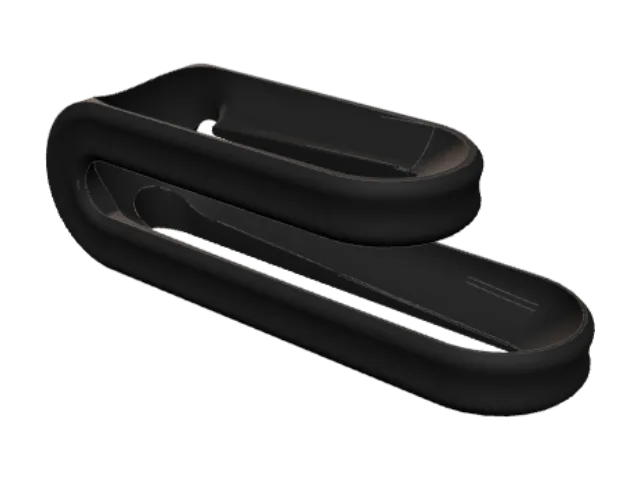
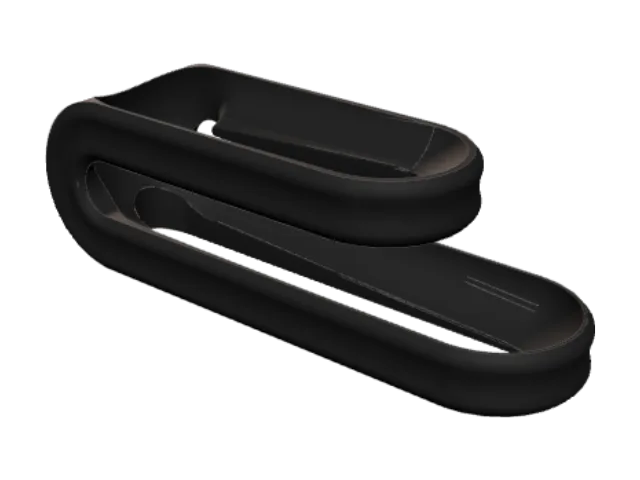
Distributeur d'œufs en boucle : seule la longueur est réglable (#138)
* Distributeur d'œufs en boucle : seule la longueur est réglable, berceaux à la taille d'origine

Claude-Session: https://claude.ai/code/session_013t5AiqU9STi8q94VNKuuJe

* Barème des prix sur-mesure : distributeur-oeufs-boucle (run 43406875804)

* Distributeur d'œufs en boucle : prix de référence, page et vignettes à jour

Claude-Session: https://claude.ai/code/session_013t5AiqU9STi8q94VNKuuJe

---------

diff --git a/produits/distributeur-oeufs-boucle/index.html b/produits/distributeur-oeufs-boucle/index.html
@@ -26,7 +26,7 @@
   <meta property="product:price:amount" content="27.00">
   <meta property="product:price:currency" content="EUR">
   <meta name="twitter:card" content="summary_large_image">
-  <script type="application/ld+json">[{"@context":"https://schema.org","@type":"Product","name":"Distributeur d'œufs en boucle","description":"La forme d'origine, avec ses berceaux galbés. Couchez les œufs en travers dans le bac du haut : ils roulent jusqu'à la boucle, font demi-tour et redescendent par le bac du bas jusqu'à son bout relevé, où l'on prend le premier. Chaque œuf repose sur deux berceaux galbés, de part et d'autre d'une fente qui laisse voir les œufs du dessous. Les berceaux s'écartent selon la longueur de vos œufs ; la longueur du distributeur fixe le nombre d'œufs.","sku":"distributeur-oeufs-boucle","category":"Meubles & Rangement","image":["https://evarysth.fr/assets/og/distributeur-oeufs-boucle.jpg"],"brand":{"@type":"Brand","name":"Evarysth"},"offers":{"@type":"AggregateOffer","url":"https://evarysth.fr/produits/distributeur-oeufs-boucle/","priceCurrency":"EUR","offerCount":3,"lowPrice":"28.00","highPrice":"32.00"}},{"@context":"https://schema.org","@type":"BreadcrumbList","itemListElement":[{"@type":"ListItem","position":1,"name":"Catalogue","item":"https://evarysth.fr/catalogue/"},{"@type":"ListItem","position":2,"name":"Meubles & Rangement","item":"https://evarysth.fr/univers/meubles/"},{"@type":"ListItem","position":3,"name":"Distributeur d'œufs en boucle","item":"https://evarysth.fr/produits/distributeur-oeufs-boucle/"}]}]</script>
+  <script type="application/ld+json">[{"@context":"https://schema.org","@type":"Product","name":"Distributeur d'œufs en boucle","description":"La forme d'origine, avec ses berceaux galbés. Couchez les œufs en travers dans le bac du haut : ils roulent jusqu'à la boucle, font demi-tour et redescendent par le bac du bas jusqu'à son bout relevé, où l'on prend le premier. Chaque œuf repose sur deux berceaux galbés, de part et d'autre d'une fente qui laisse voir les œufs du dessous. Les berceaux accueillent les œufs du commerce, du calibre moyen au gros ; la longueur du distributeur fixe le nombre d'œufs.","sku":"distributeur-oeufs-boucle","category":"Meubles & Rangement","image":["https://evarysth.fr/assets/og/distributeur-oeufs-boucle.jpg"],"brand":{"@type":"Brand","name":"Evarysth"},"offers":{"@type":"AggregateOffer","url":"https://evarysth.fr/produits/distributeur-oeufs-boucle/","priceCurrency":"EUR","offerCount":3,"lowPrice":"28.00","highPrice":"32.00"}},{"@context":"https://schema.org","@type":"BreadcrumbList","itemListElement":[{"@type":"ListItem","position":1,"name":"Catalogue","item":"https://evarysth.fr/catalogue/"},{"@type":"ListItem","position":2,"name":"Meubles & Rangement","item":"https://evarysth.fr/univers/meubles/"},{"@type":"ListItem","position":3,"name":"Distributeur d'œufs en boucle","item":"https://evarysth.fr/produits/distributeur-oeufs-boucle/"}]}]</script>
   <link rel="preconnect" href="https://fonts.googleapis.com">
   <link rel="preconnect" href="https://fonts.gstatic.com" crossorigin>
   <link href="https://fonts.googleapis.com/css2?family=Bricolage+Grotesque:opsz,wght@12..96,600;12..96,700;12..96,800&family=Inter:wght@400;500;600;700&family=JetBrains+Mono:wght@400;500&display=swap" rel="stylesheet">
@@ -88,7 +88,7 @@
     <article class="pdp-static">
       <h1>Distributeur d'œufs en boucle</h1>
       <p>La forme d'origine, avec ses berceaux galbés.</p>
-      <p>Couchez les œufs en travers dans le bac du haut : ils roulent jusqu'à la boucle, font demi-tour et redescendent par le bac du bas jusqu'à son bout relevé, où l'on prend le premier. Chaque œuf repose sur deux berceaux galbés, de part et d'autre d'une fente qui laisse voir les œufs du dessous. Les berceaux s'écartent selon la longueur de vos œufs ; la longueur du distributeur fixe le nombre d'œufs.</p>
+      <p>Couchez les œufs en travers dans le bac du haut : ils roulent jusqu'à la boucle, font demi-tour et redescendent par le bac du bas jusqu'à son bout relevé, où l'on prend le premier. Chaque œuf repose sur deux berceaux galbés, de part et d'autre d'une fente qui laisse voir les œufs du dessous. Les berceaux accueillent les œufs du commerce, du calibre moyen au gros ; la longueur du distributeur fixe le nombre d'œufs.</p>
       <p>Dès 27 €. En taille standard (longueur du distributeur : Compact environ 6 œufs, Moyen environ 7 œufs, Grand environ 8 œufs), ou sur-mesure à vos cotes.</p>
       
       <noscript><p>Activez JavaScript pour voir la pièce en 3D, régler vos cotes et commander.</p></noscript>

diff --git a/assets/js/modeles/distributeur-oeufs-boucle.js b/assets/js/modeles/distributeur-oeufs-boucle.js
@@ -2,41 +2,37 @@
    Forme d'origine du STL « eggs dispenser v21 », gardée telle quelle (allégée de 53 600 à 16 000 triangles,
    écart ≤ 0,1 mm) : deux bacs superposés reliés par une boucle, berceaux galbés de part et d'autre d'une fente
    centrale. Les œufs, couchés en travers, roulent dans le bac du haut vers la boucle (pente 2,5 %), font demi-tour
-   et redescendent par le bac du bas jusqu'au bout relevé, à droite.
+   et redescendent par le bac du bas jusqu'au bout relevé, à droite. Berceaux à la taille d'origine (œufs du
+   commerce, calibres M à L) : ils entourent largement l'œuf, le jeu de la matière n'y change rien.
    Repère du fichier : X la longueur (boucle en x = 0), Y vers le haut (dessous en y = 0), Z la profondeur, centrée.
-   Redimensionnement « par zones », comme la boîte Rugged : on n'étire que des bandes sans détail.
-   - b = longueur hors tout : bande 57 < x < 183 (bacs droits seulement ; boucle, bouts et encoches translatés).
-     Les fonds y restent plans : ils raccourcissent avec la bande, leur pente augmente un peu quand on raccourcit.
-   - a = longueur des œufs (+ jeu) : bande centrale |z| < 11,5, dans la fente ; les berceaux gardent leur forme et
-     s'écartent. Le fichier d'origine correspond à des œufs de 60 mm. */
+   a = longueur hors tout, redimensionnée « par zones » comme la boîte Rugged : seule la bande 57 < x < 183 (bacs
+   droits) s'étire ; boucle, bouts et encoches sont translatés. Les fonds y restent plans : ils raccourcissent avec
+   la bande, leur pente augmente un peu quand on raccourcit. */
 EVARYSTH.viewer3d.define("distributeur-oeufs-boucle", ({ fetchSTL }) => {
   const URL = "assets/models/distributeur-oeufs-boucle/distributeur.stl";
-  const NOM = { a: 60, b: 274.191 }, BX = [57, 183], BZ = 11.5;
+  const L0 = 274.191, BX = [57, 183];
   let base = null, creases = null;
   const model = (T, v) => {
-    const dx = v.b - NOM.b, dz = (v.a + (v.jeu || 0) - NOM.a - 0.3) / 2;   // 0,3 : jeu du PETG, compris dans le fichier
-    const sx = (BX[1] - BX[0] + dx) / (BX[1] - BX[0]), sz = (BZ + dz) / BZ;
-    const out = new Float32Array(base.length);
-    for (let i = 0; i < base.length; i += 3) {
-      const x = base[i], z = base[i + 2];
+    const dx = v.a - L0, sx = (BX[1] - BX[0] + dx) / (BX[1] - BX[0]);
+    const out = base.slice();
+    for (let i = 0; i < out.length; i += 3) {
+      const x = out[i];
       out[i] = x > BX[1] ? x + dx : x > BX[0] ? BX[0] + (x - BX[0]) * sx : x;
-      out[i + 1] = base[i + 1];
-      out[i + 2] = z > BZ ? z + dz : z < -BZ ? z - dz : z * sz;
     }
     const g = new T.BufferGeometry();
     g.setAttribute("position", new T.BufferAttribute(out, 3));
     const r = creases(g, Math.PI / 6); g.dispose();   // ombrage lisse sur les galbes, arêtes vives au-delà de 30°
-    return r.translate(-(v.b) / 2, 0, 0);
+    return r.translate(-v.a / 2, 0, 0);
   };
   model.prepare = () => base ? Promise.resolve() : Promise.all([fetchSTL(URL), import("three/addons/utils/BufferGeometryUtils.js")])
     .then(([g, { toCreasedNormals }]) => { base = g.attributes.position.array.slice(); creases = toCreasedNormals; });
   return model;
 }, {
   solides: 1,
-  /* Repère final : centré en x (longueur b), dessous en y = 0, centré en z. Fente du bac bas mesurée à mi-longueur,
-     3 mm au-dessus du dessous (27,5 mm d'origine, élargie comme les œufs). */
-  cotes: ({ a, b, jeu }) => [
-    { nom: "longueur du distributeur", axe: "y", en: [0, 3, 0], mesure: "boite", selon: "x", attendu: b },
-    { nom: "profondeur hors tout", axe: "y", en: [0, 3, 0], mesure: "boite", selon: "z", attendu: 73.37 + a + jeu - 60.3 },
-    { nom: "fente du bac bas", axe: "x", en: [0, 3, 0], mesure: "largeur", selon: "z", attendu: 27.5 + a + jeu - 60.3 }]
+  /* Repère final : centré en x (longueur a), dessous en y = 0, centré en z. Fente du bac bas mesurée à mi-longueur,
+     3 mm au-dessus du dessous. */
+  cotes: ({ a }) => [
+    { nom: "longueur du distributeur", axe: "y", en: [0, 3, 0], mesure: "boite", selon: "x", attendu: a },
+    { nom: "profondeur hors tout", axe: "y", en: [0, 3, 0], mesure: "boite", selon: "z", attendu: 73.37 },
+    { nom: "fente du bac bas", axe: "x", en: [0, 3, 0], mesure: "largeur", selon: "z", attendu: 27.5 }]
 });

diff --git a/assets/js/bareme.js b/assets/js/bareme.js
@@ -19,7 +19,7 @@ EVARYSTH.bareme = {
     "vide-poche-cles": {"empreinte":"8a8f469359fb38fe","matiere":"pla","profil":"pla","bambu_studio":"02.08.02.61","axes":{"a":[60,75,130,180],"b":[55,75,120],"c":[100,120,180]},"points":[[26.25,4065],[28.69,4150],[36.36,4935],[29.3,4250],[32.38,4581],[39.89,5448],[36.92,5135],[40.27,5416],[48.02,6429],[32.52,4912],[35.56,4988],[45.1,5966],[36.15,5097],[39.98,5513],[49.31,6587],[45.24,6141],[49.4,6527],[59.05,7742],[54.48,7856],[59.68,7932],[76.11,9622],[60.25,8088],[66.8,8798],[82.85,10600],[74.73,9642],[81.85,10337],[98.45,12415],[75.15,10668],[82.34,10738],[105.02,13003],[82.88,10909],[91.92,11890],[114.06,14402],[102.26,13044],[112.09,13972],[135.01,16853]]},
     "distributeur-cotons": {"empreinte":"17c116b2f7ab83ce","matiere":"petg","profil":"petg","bambu_studio":"02.08.02.61","axes":{"a":[45,58,75],"b":[100,150,200],"c":[35,50,70]},"points":[[43.94,8444],[47.32,8605],[51.82,8865],[58.51,11798],[61.89,12046],[66.39,12249],[73.09,15279],[76.46,15469],[80.96,15635],[52.85,8806],[56.14,9024],[60.54,9276],[70.83,12237],[74.13,12439],[78.53,12745],[88.81,15733],[92.11,15932],[96.5,16143],[65.46,9715],[68.76,9997],[73.17,10382],[87.96,13304],[91.26,13578],[95.66,13974],[110.46,16895],[113.76,17183],[118.17,17558]]},
     "distributeur-oeufs": {"empreinte":"2f5180c318e834c2","matiere":"petg","profil":"petg","bambu_studio":"02.08.02.61","axes":{"a":[50,55,60,68],"b":[180,200,220,250]},"points":[[80.1,12916],[87.62,13979],[96.22,15169],[108.61,16869],[87.7,14080],[95.9,15091],[105.05,16357],[118.3,18015],[100.79,15490],[109.96,16814],[120.18,18121],[135.13,19995],[114.6,17296],[125.77,18835],[136.97,20395],[153.24,22339]]},
-    "distributeur-oeufs-boucle": {"empreinte":"1461f20714f077e7","matiere":"petg","profil":"petg","bambu_studio":"02.08.02.61","axes":{"a":[50,55,60,68],"b":[210,242,274,280]},"points":[[89.44,14664],[104.57,16809],[119.5,19020],[122.2,19281],[91.66,15009],[106.82,17186],[121.78,19237],[124.28,19651],[93.82,15348],[108.98,17573],[123.92,19654],[126.39,19988],[97.41,15931],[112.57,18077],[127.54,20243],[129.95,20543]]},
+    "distributeur-oeufs-boucle": {"empreinte":"ff78241988490f8c","matiere":"petg","profil":"petg","bambu_studio":"02.08.02.61","axes":{"a":[210,226,242,274,280]},"points":[[93.83,15320],[101.31,16484],[108.98,17486],[123.92,19688],[126.39,20047]]},
     "cintre-sac": {"empreinte":"6b52ac4a3a371e48","matiere":"petg","profil":"petg","bambu_studio":"02.08.02.61","axes":{"a":[15,20,25,33,40]},"points":[[14.13,3811],[14.91,3935],[16.24,4006],[18.02,4029],[19.61,4169]]},
     "support-aerosol-skadis": {"empreinte":"29c4443d1121707f","matiere":"asa","profil":"petg","bambu_studio":"02.08.02.61","axes":{"a":[40,54,67,80],"b":[60,75,85,110]},"points":[[18.74,4728],[22.49,5706],[24.98,6362],[31.2,8013],[25.98,5059],[31.19,6073],[34.66,6748],[43.35,8451],[33.47,5535],[40.24,6593],[44.76,7293],[56.03,9096],[39.92,6013],[47.93,7118],[53.27,7857],[66.63,9737]]},
     "support-accessoires-aspirateur": {"empreinte":"edcf085530655c49","matiere":"petg","profil":"petg","bambu_studio":"02.08.02.61","axes":{"a":[30,35.8,45],"b":[180,196,250],"c":[50,60,90]},"points":[[47.39,7132],[49.36,7332],[58.12,8325],[50.04,7582],[52.09,7640],[61.07,8734],[59.26,8477],[60.94,8747],[69.99,9814],[47.79,7239],[51.69,7787],[59.83,8651],[50.67,7520],[54.46,8039],[62.57,9040],[59.25,8595],[63.16,9032],[71.17,9962],[52.5,7854],[54.49,8052],[63.29,9194],[55.05,8223],[57.14,8368],[66.24,9534],[64.53,9326],[66.03,9300],[75.17,10296]]},

diff --git a/assets/js/data.js b/assets/js/data.js
@@ -359,8 +359,8 @@ EVARYSTH.products = [
     id: "distributeur-oeufs-boucle", universe: "meubles", matiere: "petg", shape: "eggs", model: "distributeur-oeufs-boucle",
     name: "Distributeur d'œufs en boucle",
     tagline: "La forme d'origine, avec ses berceaux galbés.",
-    desc: "Couchez les œufs en travers dans le bac du haut : ils roulent jusqu'à la boucle, font demi-tour et redescendent par le bac du bas jusqu'à son bout relevé, où l'on prend le premier. Chaque œuf repose sur deux berceaux galbés, de part et d'autre d'une fente qui laisse voir les œufs du dessous. Les berceaux s'écartent selon la longueur de vos œufs ; la longueur du distributeur fixe le nombre d'œufs.",
-    variants: sizes("Longueur du distributeur", [["Compact", "environ 6 œufs", { a: 60, b: 214 }], ["Moyen", "environ 7 œufs", { a: 60, b: 244 }], ["Grand", "environ 8 œufs", { a: 60, b: 274 }]]),
+    desc: "Couchez les œufs en travers dans le bac du haut : ils roulent jusqu'à la boucle, font demi-tour et redescendent par le bac du bas jusqu'à son bout relevé, où l'on prend le premier. Chaque œuf repose sur deux berceaux galbés, de part et d'autre d'une fente qui laisse voir les œufs du dessous. Les berceaux accueillent les œufs du commerce, du calibre moyen au gros ; la longueur du distributeur fixe le nombre d'œufs.",
+    variants: sizes("Longueur du distributeur", [["Compact", "environ 6 œufs", { a: 214 }], ["Moyen", "environ 7 œufs", { a: 244 }], ["Grand", "environ 8 œufs", { a: 274 }]]),
     colors: [
       { id: "noir", label: "Noir mat", hex: "#2a2a2a" },
       { id: "coquille", label: "Coquille d'œuf", hex: "#ece3d2", roughness: 0.7 }
@@ -368,8 +368,7 @@ EVARYSTH.products = [
     impression: { matiere: "petg", orientation: POSE.enDiagonale, supports: true, parPlateau: 1,
       remarques: "Couché sur un flanc, en diagonale du plateau (il est plus long que le plateau). Supports sous les berceaux et dans la boucle." },
     custom: { params: [
-      param("a", "Longueur de vos œufs", 50, 68, 60),
-      param("b", "Longueur du distributeur", 210, 280, 274)
+      param("a", "Longueur du distributeur", 210, 280, 274)
     ] }
   },
   {
